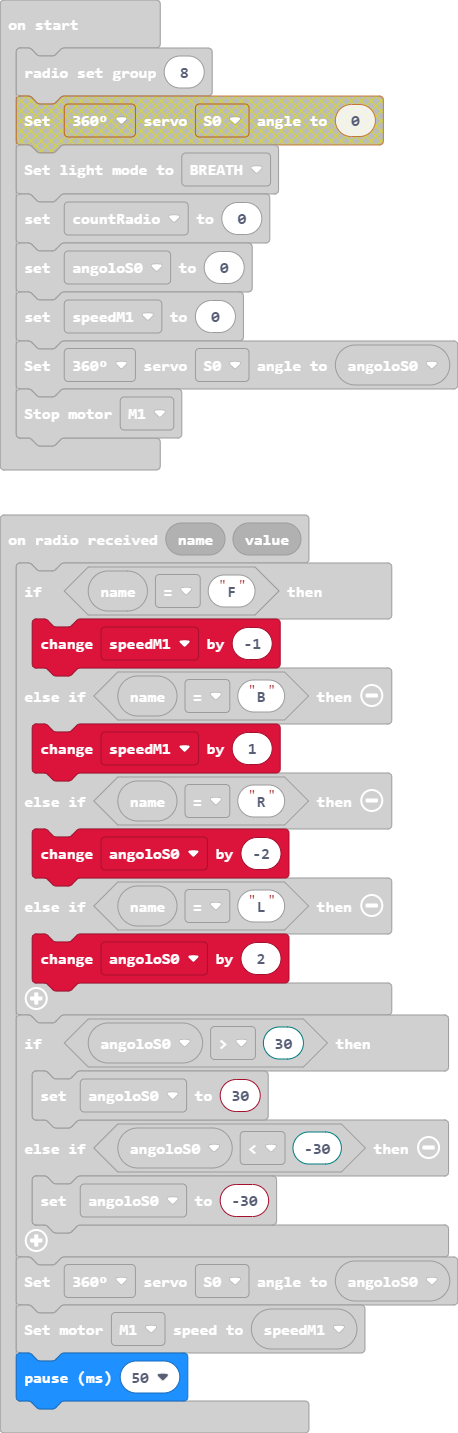
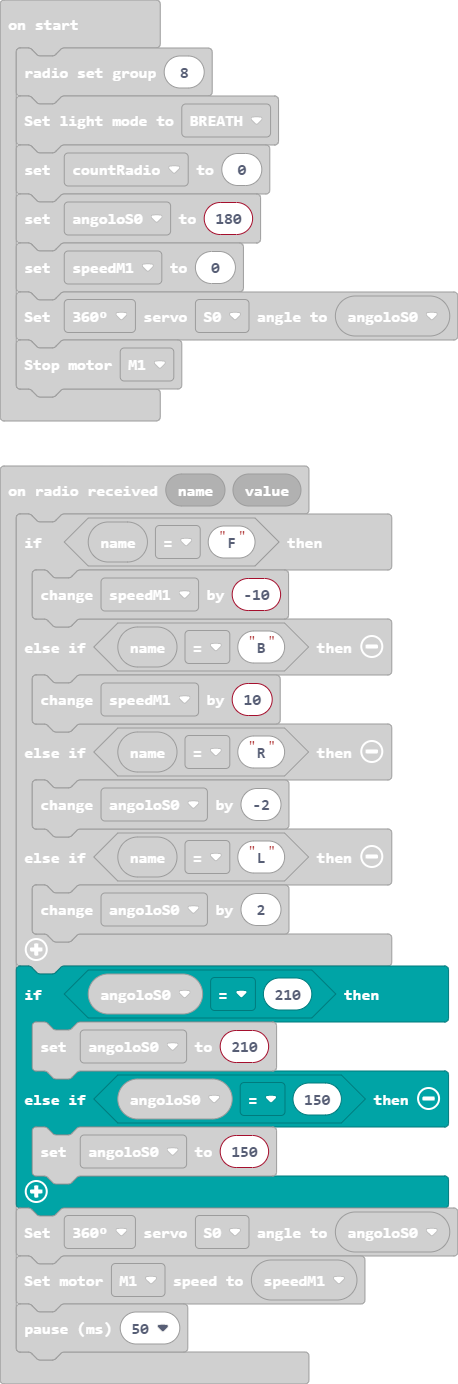
Update main.blocks, main.ts

diff --git a/main.ts b/main.ts
@@ -1,17 +1,17 @@
 radio.onReceivedValue(function (name, value) {
     if (name == "F") {
-        speedM1 += -1
+        speedM1 += -10
     } else if (name == "B") {
-        speedM1 += 1
+        speedM1 += 10
     } else if (name == "R") {
         angoloS0 += -2
     } else if (name == "L") {
         angoloS0 += 2
     }
-    if (angoloS0 > 30) {
-        angoloS0 = 30
-    } else if (angoloS0 < -30) {
-        angoloS0 = -30
+    if (angoloS0 == 210) {
+        angoloS0 = 210
+    } else if (angoloS0 == 150) {
+        angoloS0 = 150
     }
     wuKong.setServoAngle(wuKong.ServoTypeList._360, wuKong.ServoList.S0, angoloS0)
     wuKong.setMotorSpeed(wuKong.MotorList.M1, speedM1)
@@ -22,7 +22,7 @@ let angoloS0 = 0
 radio.setGroup(8)
 wuKong.setLightMode(wuKong.LightMode.BREATH)
 let countRadio = 0
-angoloS0 = 0
+angoloS0 = 180
 speedM1 = 0
 wuKong.setServoAngle(wuKong.ServoTypeList._360, wuKong.ServoList.S0, angoloS0)
 wuKong.stopMotor(wuKong.MotorList.M1)
